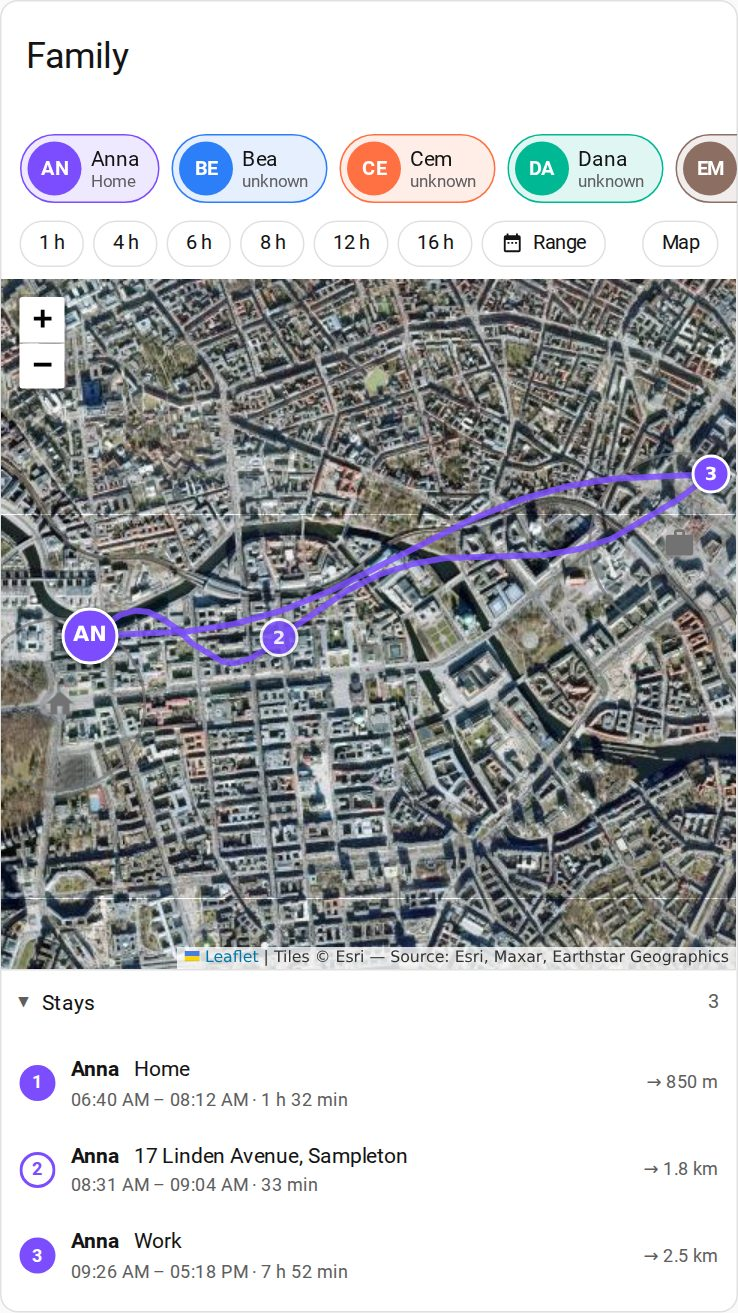
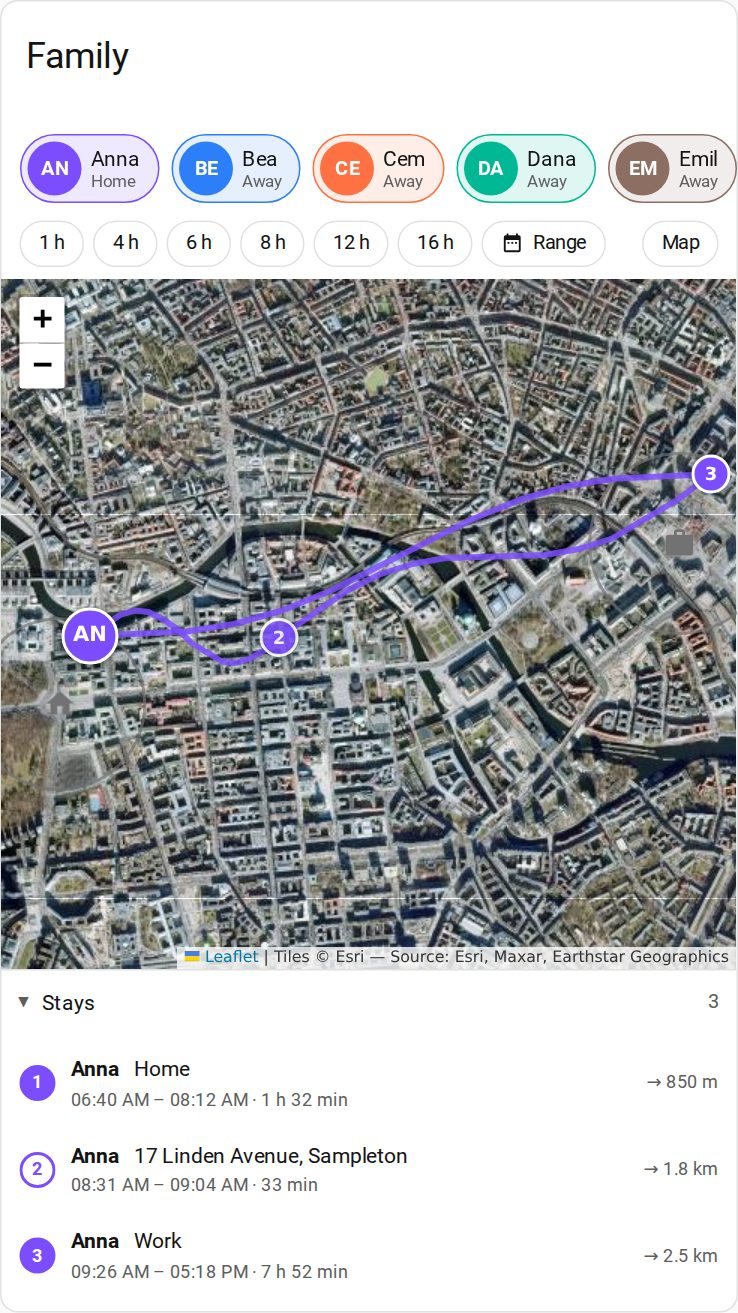
Say where a person is instead of printing the raw state
The chips showed the entity state verbatim, so a person Home Assistant has no
position for read "unknown" and one outside every zone read "not_home". Both are
words from the database, not an answer to where somebody is.

They now read Away, or Unterwegs in German. `unavailable` stays separate,
because that one says the tracker is down rather than that the person is out --
a distinction the reader can act on.

`unknown` is folded into Away on purpose. It strictly means "no position at
all", which is not the same as being out, but on a card about where the family
is that difference is one nobody can do anything with, while the raw word helps
no one.

The mapping is a plain function next to the translations, so the states are
covered by tests rather than buried in a template.

Changed region(s): [[0.3428, 0.0937, 0.9973, 0.1561]]

diff --git a/src/localize.ts b/src/localize.ts
@@ -18,6 +18,30 @@ export function languageOf(hassLanguage: string | undefined): string {
   return base in TRANSLATIONS ? base : "en";
 }
 
+/**
+ * The technical states a `person` entity can report instead of a zone name, and
+ * the key that says the same thing in words. Everything else is a zone the user
+ * named themselves and is shown as it is.
+ *
+ * `unknown` means Home Assistant has no position at all, which is not literally
+ * "on the move" -- but for a card about where the family is, the distinction is
+ * one the reader cannot act on, and the raw word is worse than useless. Only
+ * `unavailable` stays apart, because that says the tracker itself is down.
+ */
+const PERSON_STATES: Record<string, string> = {
+  home: "card.state_home",
+  not_home: "card.state_away",
+  unknown: "card.state_away",
+  none: "card.state_away",
+  "": "card.state_away",
+  unavailable: "card.state_unavailable",
+};
+
+/** The translation key for a technical state, or nothing for a zone name. */
+export function personStateKey(state: string | undefined): string | undefined {
+  return PERSON_STATES[(state ?? "").toLowerCase()];
+}
+
 type Vars = Record<string, string | number>;
 
 /**
@@ -53,7 +77,9 @@ const en: Record<string, string> = {
   "card.no_stays": "No stays in this range.",
   "card.no_data": "No location data in this range. The recorder keeps only 10 days by default.",
   "card.load_error": "Could not load history: {error}",
-  "card.home": "Home",
+  "card.state_home": "Home",
+  "card.state_away": "Away",
+  "card.state_unavailable": "Unavailable",
   "card.hide_person": "Hide {name}",
   "card.show_person": "Show {name}",
 
@@ -143,7 +169,9 @@ const de: Record<string, string> = {
   "card.no_data":
     "Keine Positionsdaten im Zeitraum. Der Recorder hält standardmäßig nur 10 Tage vor.",
   "card.load_error": "Verlauf konnte nicht geladen werden: {error}",
-  "card.home": "Zuhause",
+  "card.state_home": "Zuhause",
+  "card.state_away": "Unterwegs",
+  "card.state_unavailable": "Nicht verfügbar",
   "card.hide_person": "{name} ausblenden",
   "card.show_person": "{name} einblenden",
 

diff --git a/test/localize.test.ts b/test/localize.test.ts
@@ -1,7 +1,7 @@
 import { deepStrictEqual, ok, strictEqual } from "node:assert/strict";
 import { describe, it } from "node:test";
 
-import { LANGUAGES, languageOf, localize } from "../src/localize.ts";
+import { LANGUAGES, languageOf, localize, personStateKey } from "../src/localize.ts";
 import { EDITOR_SCHEMA, SATELLITE_STYLES, STREET_STYLES } from "../src/const.ts";
 
 describe("Sprache bestimmen", () => {
@@ -73,5 +73,35 @@ describe("Vollständigkeit", () => {
   /* Deutsch darf lückenhaft sein -- Englisch nicht, es ist der Rückfall. */
   it("kennt genau die gepflegten Sprachen", () => {
     deepStrictEqual(LANGUAGES, ["en", "de"]);
+  });
+});
+
+describe("Zustände einer Person", () => {
+  /* Die Karte zeigte bisher das rohe Wort aus Home Assistant. */
+  it("benennt die technischen Zustände", () => {
+    strictEqual(localize("de", personStateKey("not_home")!), "Unterwegs");
+    strictEqual(localize("de", personStateKey("unknown")!), "Unterwegs");
+    strictEqual(localize("en", personStateKey("not_home")!), "Away");
+    strictEqual(localize("de", personStateKey("home")!), "Zuhause");
+  });
+
+  it("hält einen ausgefallenen Tracker davon getrennt", () => {
+    strictEqual(localize("de", personStateKey("unavailable")!), "Nicht verfügbar");
+    strictEqual(localize("en", personStateKey("unavailable")!), "Unavailable");
+  });
+
+  it("ignoriert Groß- und Kleinschreibung", () => {
+    strictEqual(personStateKey("NOT_HOME"), personStateKey("not_home"));
+  });
+
+  /* Ein selbst benannter Zonenname muss unangetastet durchgehen. */
+  it("lässt echte Zonennamen in Ruhe", () => {
+    strictEqual(personStateKey("Arbeit"), undefined);
+    strictEqual(personStateKey("Schule"), undefined);
+  });
+
+  it("behandelt Fehlendes wie unterwegs", () => {
+    strictEqual(localize("de", personStateKey("")!), "Unterwegs");
+    strictEqual(localize("de", personStateKey(undefined)!), "Unterwegs");
   });
 });

diff --git a/src/family-tracking-card.ts b/src/family-tracking-card.ts
@@ -23,7 +23,7 @@ import { cacheKeyFor, reverseGeocode } from "./geocode";
 import { peekPreviewLayer } from "./preview-layer";
 import { TrackMap, type MapZone, type TileStyleChoice } from "./track-map";
 import { formatCoordinates, formatDistance, formatDuration, formatRange, formatSpan } from "./format";
-import { localize } from "./localize";
+import { localize, personStateKey } from "./localize";
 import {
   formatAbsoluteRange,
   resolveRange,
@@ -546,9 +546,12 @@ export class FamilyTrackingCard extends LitElement {
   /** `home` and `not_home` are technical states; show what a zone is called. */
   private _zoneName(state: string): string {
     if (state === "home") {
-      return this.hass?.states["zone.home"]?.attributes.friendly_name ?? this._t("card.home");
+      return (
+        this.hass?.states["zone.home"]?.attributes.friendly_name ?? this._t("card.state_home")
+      );
     }
-    return state;
+    const key = personStateKey(state);
+    return key ? this._t(key) : state;
   }
 
   /* ----------------------------------------------------------------- map -- */
